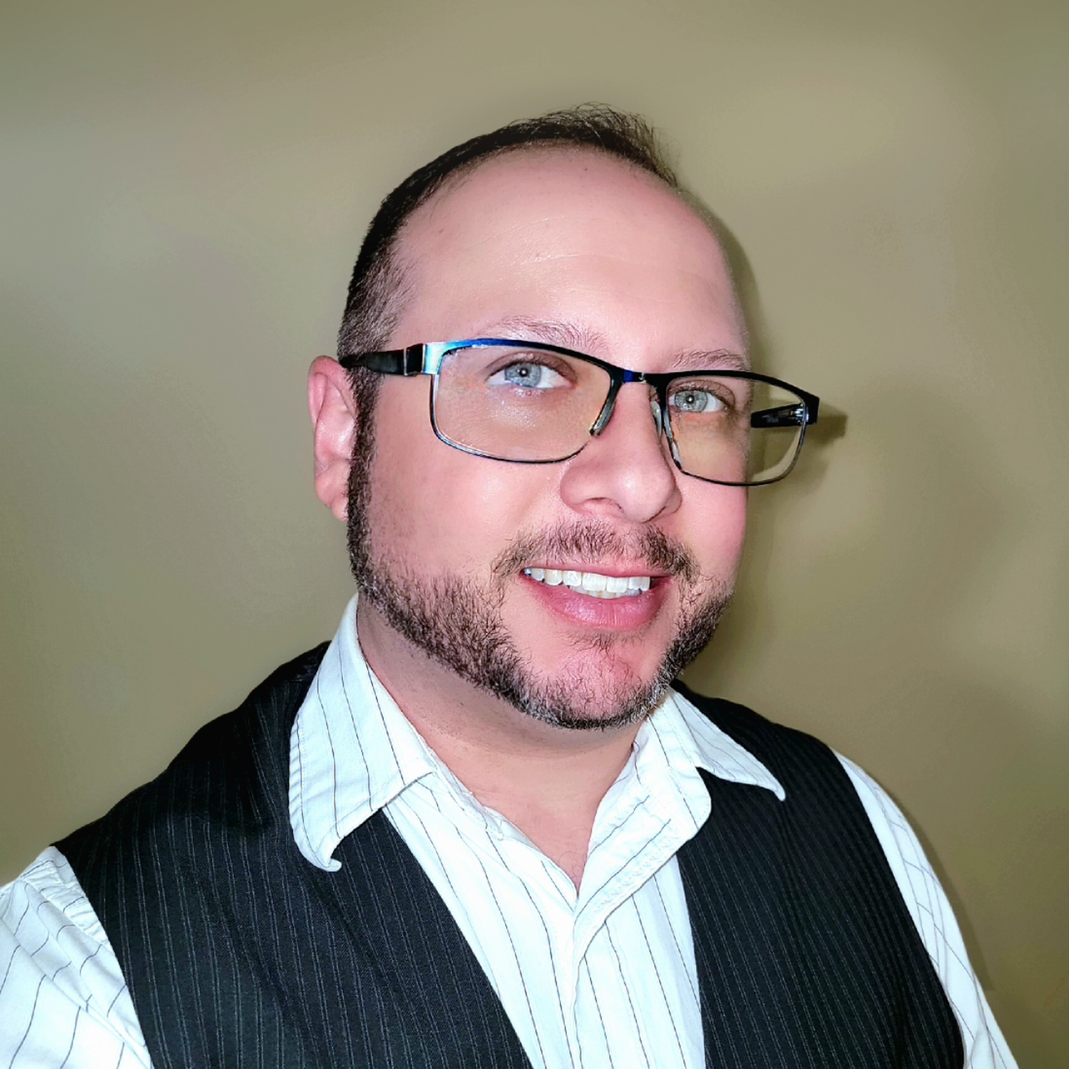
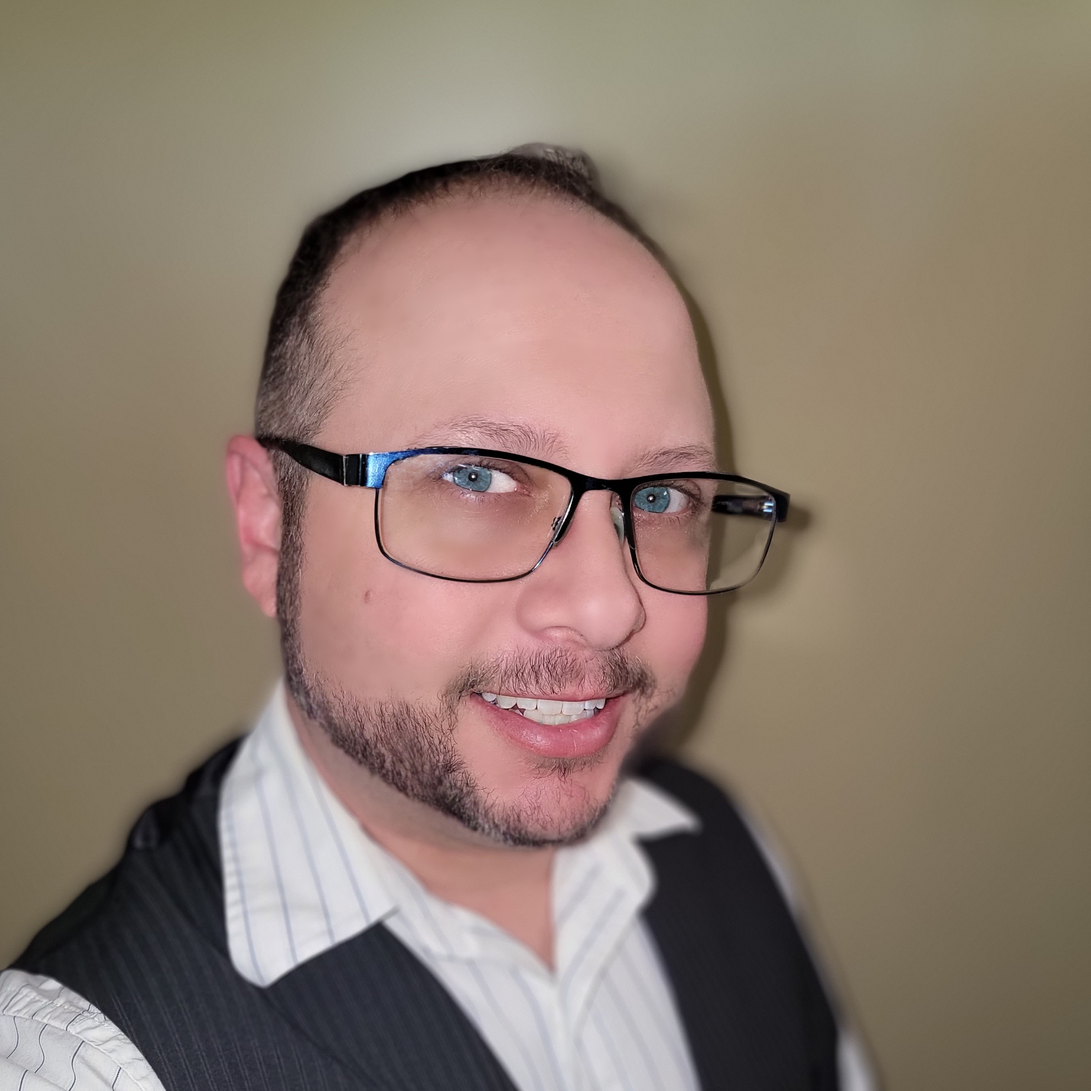
added better profile photo

diff --git a/index.html b/index.html
@@ -33,7 +33,7 @@
 				<div class="col-4 col-5-large col-12-medium">
 					<div class="row">
 
-						<span class="image fit"><img src="images/profile(blue).jpg" alt="profile picture" /></span>
+						<span class="image fit"><img src="images/profile(white).jpg" alt="profile picture" /></span>
 					</div>
 					<div class="row">
 						<h5 align="center"
